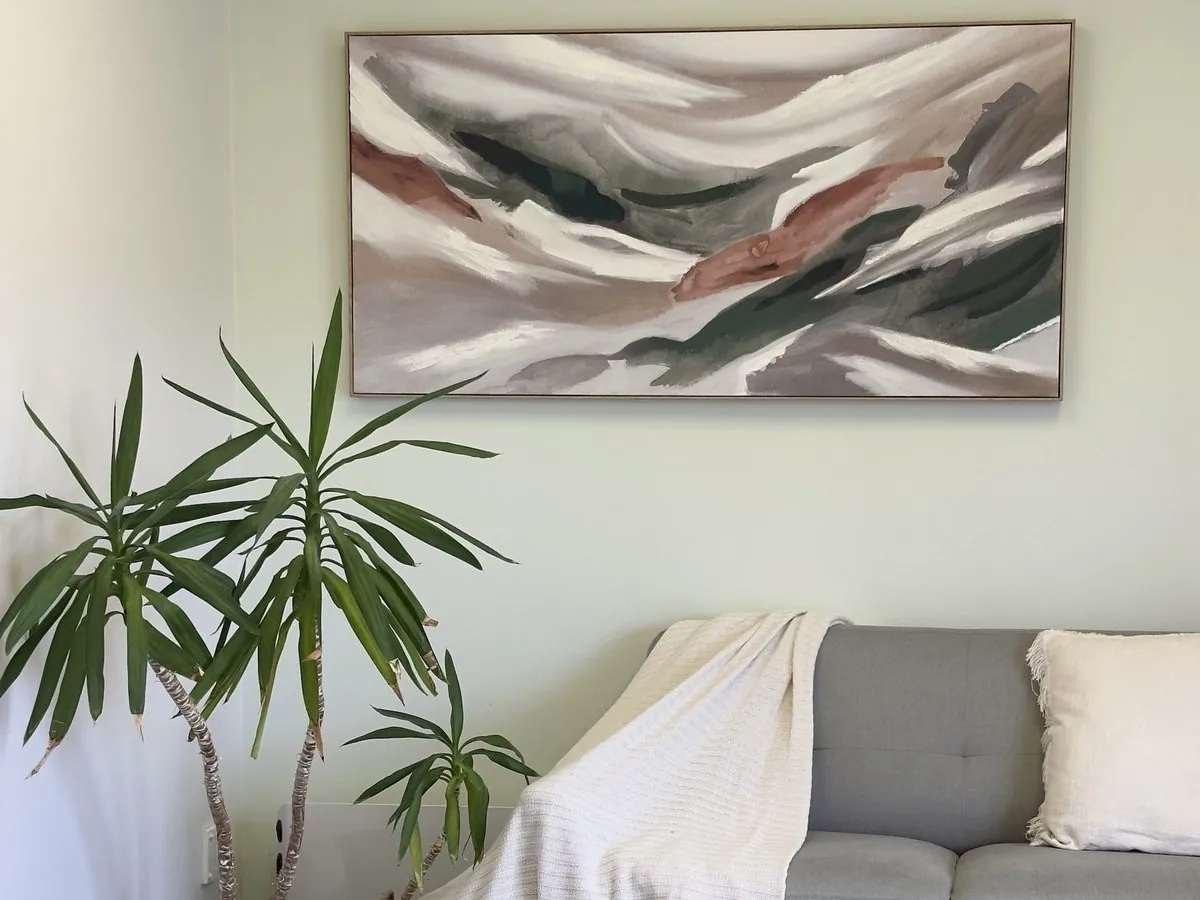
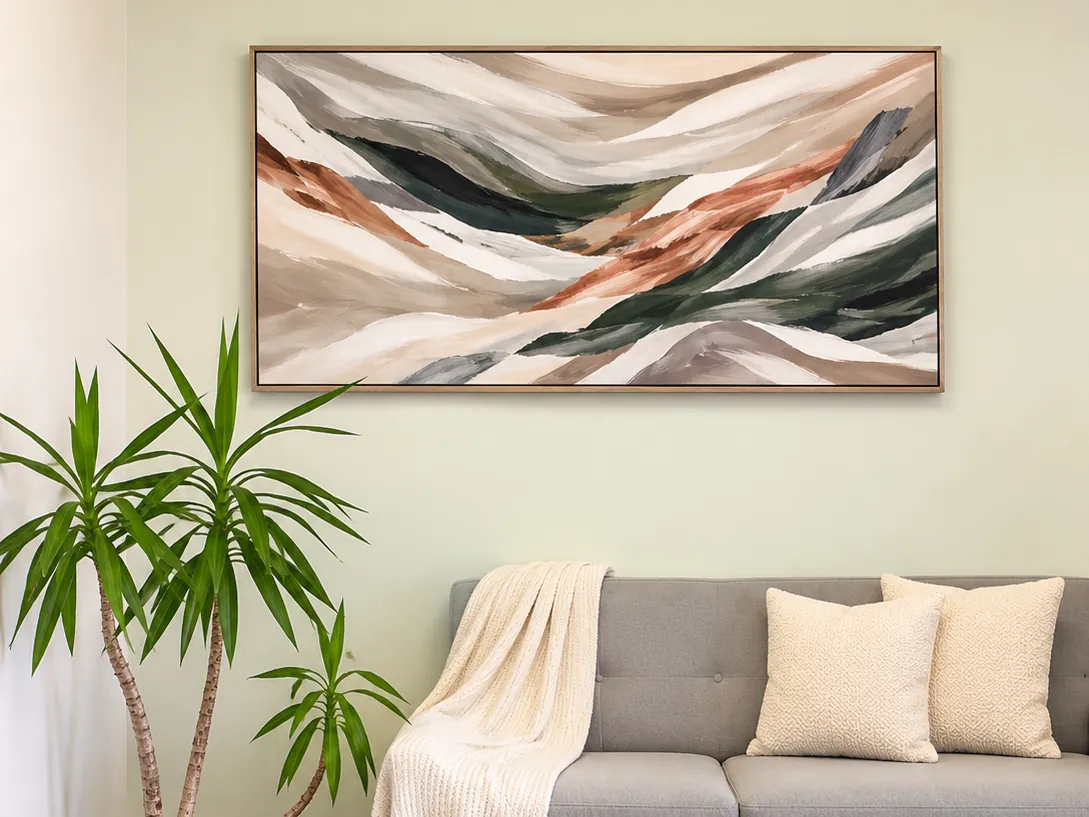
Pakuranga: use updated waiting area photo, add shelves photo
Claude-Session: https://claude.ai/code/session_01EjVt9ptsoqExB8gXxWAhxR

diff --git a/pakuranga.html b/pakuranga.html
@@ -1224,8 +1224,8 @@ footer .wrap{display:flex;justify-content:space-between;gap:16px;flex-wrap:wrap}
     <p class="inside-sub fu">Here's what to expect when you arrive at Lloyd Elsmore.</p>
     <div class="i-grid">
       <figure class="fu"><img src="images/clinics/pakuranga-treatment-room.webp" width="1086" height="814" alt="A private treatment room at Total Body Physio Pakuranga with a treatment table, desk and timber shelves" loading="lazy"><figcaption>Private, calm treatment rooms</figcaption></figure>
-      <figure class="fu"><img src="images/clinics/pakuranga-waiting.webp" width="1200" height="900" alt="The Pakuranga waiting area with a grey sofa, indoor plant and abstract artwork" loading="lazy"><figcaption>A relaxed waiting area</figcaption></figure>
-      <figure class="fu"><img src="images/clinics/pakuranga-reception.webp" width="627" height="470" alt="A white and timber console table with an orchid and a framed beach print" loading="lazy"><figcaption>A warm welcome when you arrive</figcaption></figure>
+      <figure class="fu"><img src="images/clinics/pakuranga-waiting.webp" width="1089" height="817" alt="The Pakuranga waiting area with a grey sofa, indoor plant and abstract artwork" loading="lazy"><figcaption>A relaxed waiting area</figcaption></figure>
+      <figure class="fu"><img src="images/clinics/pakuranga-shelves.webp" width="941" height="706" alt="Timber floating shelves with trailing plants and rolled towels in a Pakuranga treatment room" loading="lazy"><figcaption>Fresh towels in every room</figcaption></figure>
       <figure class="fu"><img src="images/clinics/pakuranga-gym.webp" width="800" height="430" alt="The gym at Lloyd Elsmore Leisure Centre" loading="lazy"><figcaption>The gym, for strength-based rehab</figcaption></figure>
       <figure class="fu"><img src="images/clinics/pakuranga-hallway.webp" width="1100" height="1100" alt="Rehab equipment in the Pakuranga clinic hallway" loading="lazy"><figcaption>Rehab gear on hand in the clinic</figcaption></figure>
       <figure class="fu"><img src="images/clinics/pakuranga-side.webp" width="1100" height="576" alt="The Lloyd Elsmore building with PHYSIO lettering on the windows" loading="lazy"><figcaption>Look for the PHYSIO windows</figcaption></figure>
